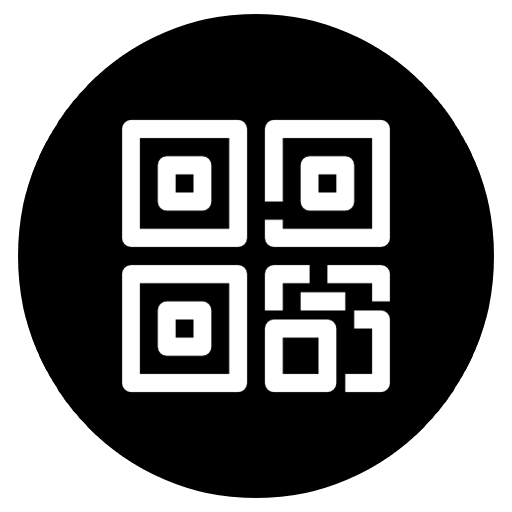
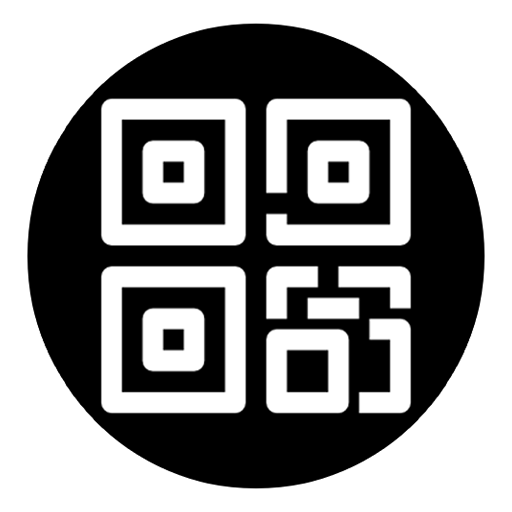
Update button Mobile & Website Link

Changed region(s): [[0.0312, 0.0, 0.9688, 1.0]]

diff --git a/app.js b/app.js
@@ -120,23 +120,36 @@ let currentLogoDataURL = null;
             const iconSizeVal = parseInt(document.getElementById('centerIconSize')?.value || 55);
             const eraseBg = document.getElementById('eraseBehindIcon')?.checked;
             const bgRadius = parseInt(document.getElementById('iconBgRadius')?.value || 12);
-            const fontSize = iconSizeVal * 0.7;
             const iconInfo = iconMap[currentCenterIconClass];
             const iconChar = iconInfo.char;
-            const fontFamily = iconInfo.family;
+            const fontFamily = iconInfo.family.replace(/['"]/g, '');
             const fontWeight = iconInfo.weight;
             
             const bgPadding = 8;
             const bgWidth = iconSizeVal + bgPadding * 2;
             const bgHeight = iconSizeVal + bgPadding * 2;
-            const bgX = centerX - bgWidth/2;
-            const bgY = centerY - bgHeight/2;
+            const bgX = centerX - bgWidth / 2;
+            const bgY = centerY - bgHeight / 2;
             
             if (eraseBg) {
                 svg += `<rect x="${bgX}" y="${bgY}" width="${bgWidth}" height="${bgHeight}" fill="#FFFFFF" rx="${bgRadius}" />`;
             }
-            // Fix: Use single quotes for font-family to avoid attribute value quoting issues
-            svg += `<text x="${centerX}" y="${centerY + fontSize * 0.3}" text-anchor="middle" font-family='${fontFamily}' font-size="${fontSize}" fill="${qrDarkColor}" font-weight="${fontWeight}">${iconChar}</text>`;
+
+            const canvasSize = Math.max(iconSizeVal, 96);
+            const iconCanvas = document.createElement('canvas');
+            iconCanvas.width = canvasSize;
+            iconCanvas.height = canvasSize;
+            const iconCtx = iconCanvas.getContext('2d');
+            iconCtx.clearRect(0, 0, canvasSize, canvasSize);
+            iconCtx.textAlign = 'center';
+            iconCtx.textBaseline = 'middle';
+            iconCtx.fillStyle = qrDarkColor;
+            iconCtx.font = `${fontWeight} ${iconSizeVal}px ${fontFamily}`;
+            iconCtx.fillText(iconChar, canvasSize / 2, canvasSize / 2);
+            const iconDataUrl = iconCanvas.toDataURL('image/png');
+            const iconX = centerX - iconSizeVal / 2;
+            const iconY = centerY - iconSizeVal / 2;
+            svg += `<image href="${iconDataUrl}" x="${iconX}" y="${iconY}" width="${iconSizeVal}" height="${iconSizeVal}" preserveAspectRatio="xMidYMid meet" />`;
         }
         
         // Draw logo on top if present
@@ -182,7 +195,7 @@ let currentLogoDataURL = null;
         row.style.alignItems = 'center';
         row.innerHTML = `
             <label style="flex: 0 0 140px;">Mobile Other ${count}</label>
-            <input type="tel" data-mobile-input placeholder="+966..." class="auto-update-input" style="flex:1;" />
+            <input type="tel" data-mobile-input placeholder="+880..." class="auto-update-input" style="flex:1;" />
             <button type="button" class="btn-outline remove-mobile-btn" style="padding:0.55rem 0.9rem; white-space:nowrap;"><i class="fas fa-times"></i></button>
         `;
         const removeBtn = row.querySelector('.remove-mobile-btn');

diff --git a/index.html b/index.html
@@ -73,7 +73,7 @@
                         </div>
                     </div>
                     <div class="accordion-item">
-                        <div class="accordion-header" data-target="phoneAcc"><i class="fas fa-phone-alt"></i><span>Phone
+                        <div class="accordion-header" data-target="phoneAcc"><i class="fas fa-phone-alt"></i><span>Phone, Telephone
                                 & Fax</span><i class="fas fa-chevron-down toggle-icon"></i></div>
                         <div id="phoneAcc" class="accordion-content">
                             <div class="grid-2">
@@ -87,6 +87,9 @@
                                         placeholder="Fax number" class="auto-update-input"></div>
                                 <div class="input-row"><label>Mobile</label><input type="tel" id="phoneMobile"
                                         placeholder="+880..." class="auto-update-input" data-mobile-input></div>
+                                <div class="input-row">
+                                    
+                                </div>
                             </div>
                             <div id="extraMobileContainer"></div>
                             <div style="margin-top: 1rem;" class="button-add-mobile">
